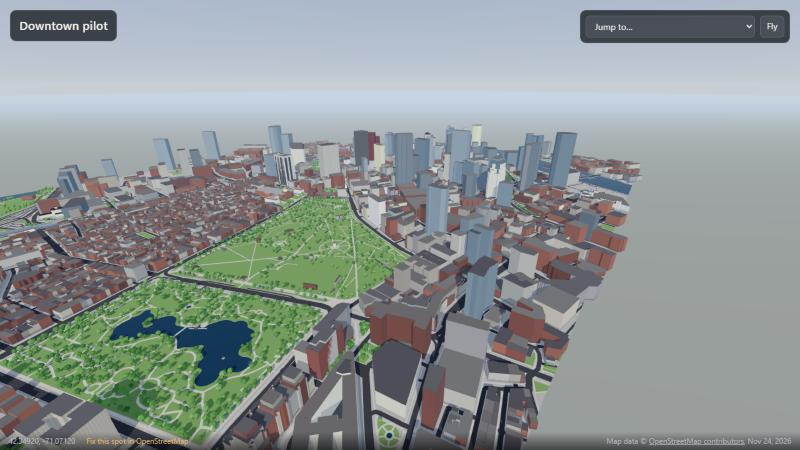
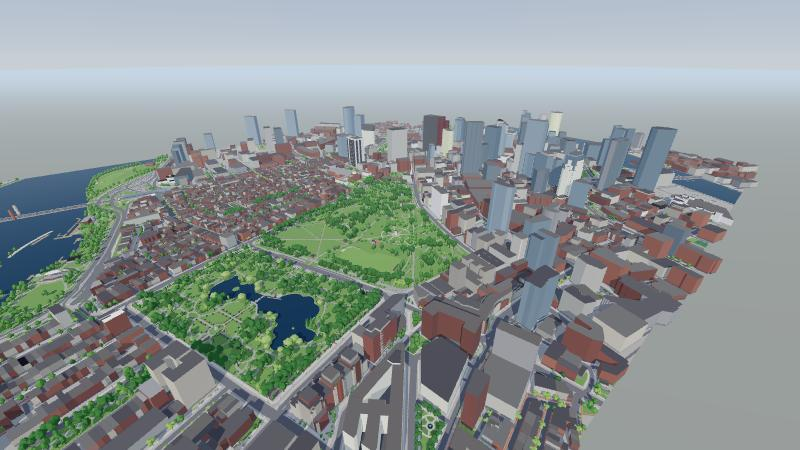
Update the README pictures
The three pictures dated from before the parks work and still showed
the old on-screen controls. All are retaken from the current model with
the controls hidden, and two are new: the footbridge over the Public
Garden lagoon, and benches and lamp posts on Boston Common.

The download size in the README goes from 22 MB to 25 MB.

diff --git a/README.md b/README.md
@@ -3,12 +3,13 @@
 An open, walkable 3D model of Boston, built from open data.
 
 **[Walk it in your browser](https://ohinai.github.io/boston-model/)** (needs a
-keyboard and mouse; about 22 MB to load).
+keyboard and mouse; about 25 MB to load).
 
-![Downtown Boston from the air: the Common, the Public Garden lagoon, Beacon Hill and the Financial District](docs/images/aerial.jpg)
+![Downtown Boston from the air: the Charles River, the Public Garden lagoon, the Common, Beacon Hill and the Financial District](docs/images/aerial.jpg)
 
 | | |
 |---|---|
+| ![The footbridge over the Public Garden lagoon, with willows on the banks](docs/images/public-garden-footbridge.jpg) | ![Benches and lamp posts on Boston Common, near Liberty Mall](docs/images/common-benches.jpg) |
 | ![Looking across Boston Common to Park Street Church](docs/images/park-street.jpg) | ![Washington Street at Downtown Crossing](docs/images/washington-street.jpg) |
 
 The goal is a city that feels real to walk through, and that later carries
